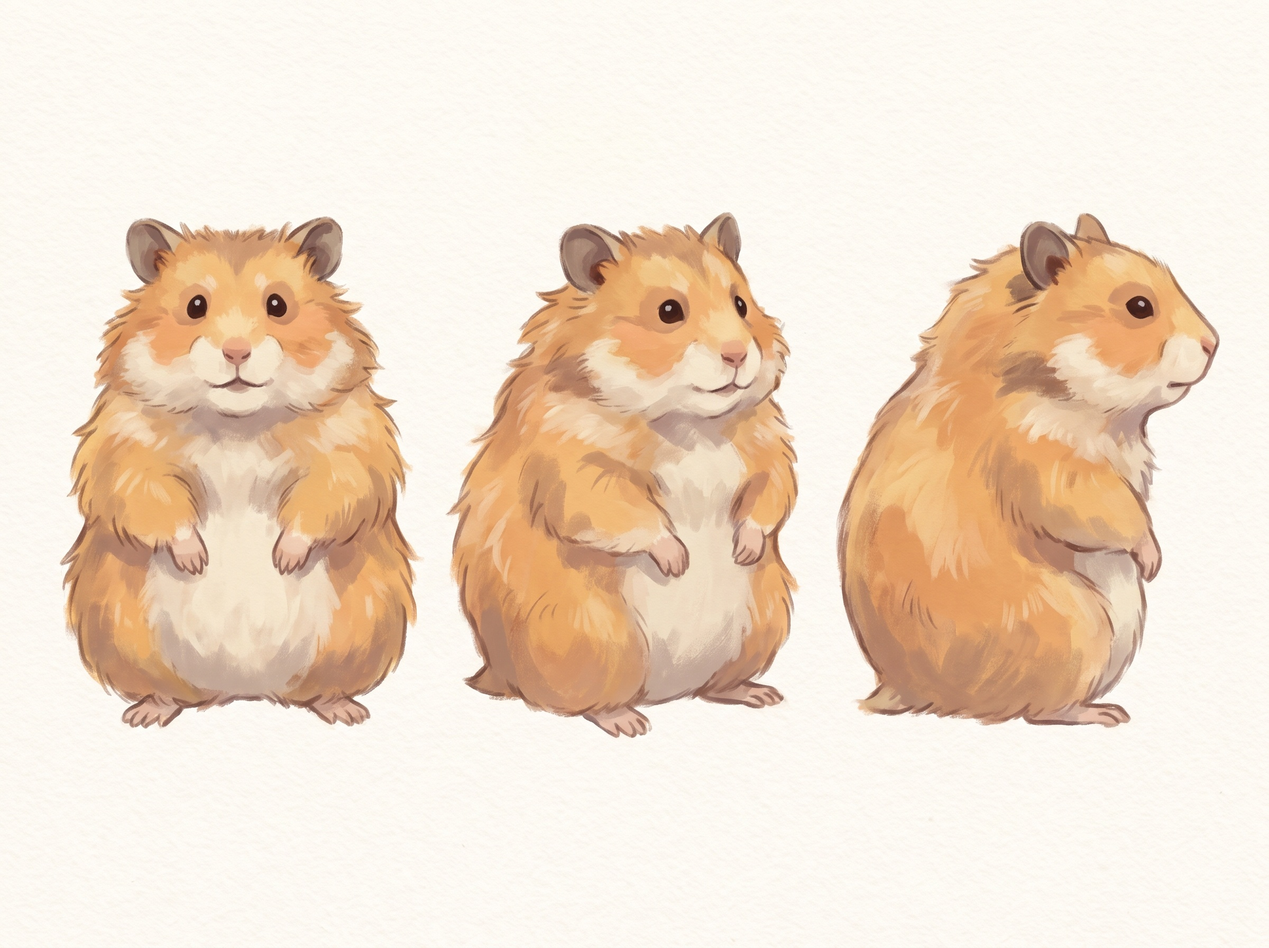
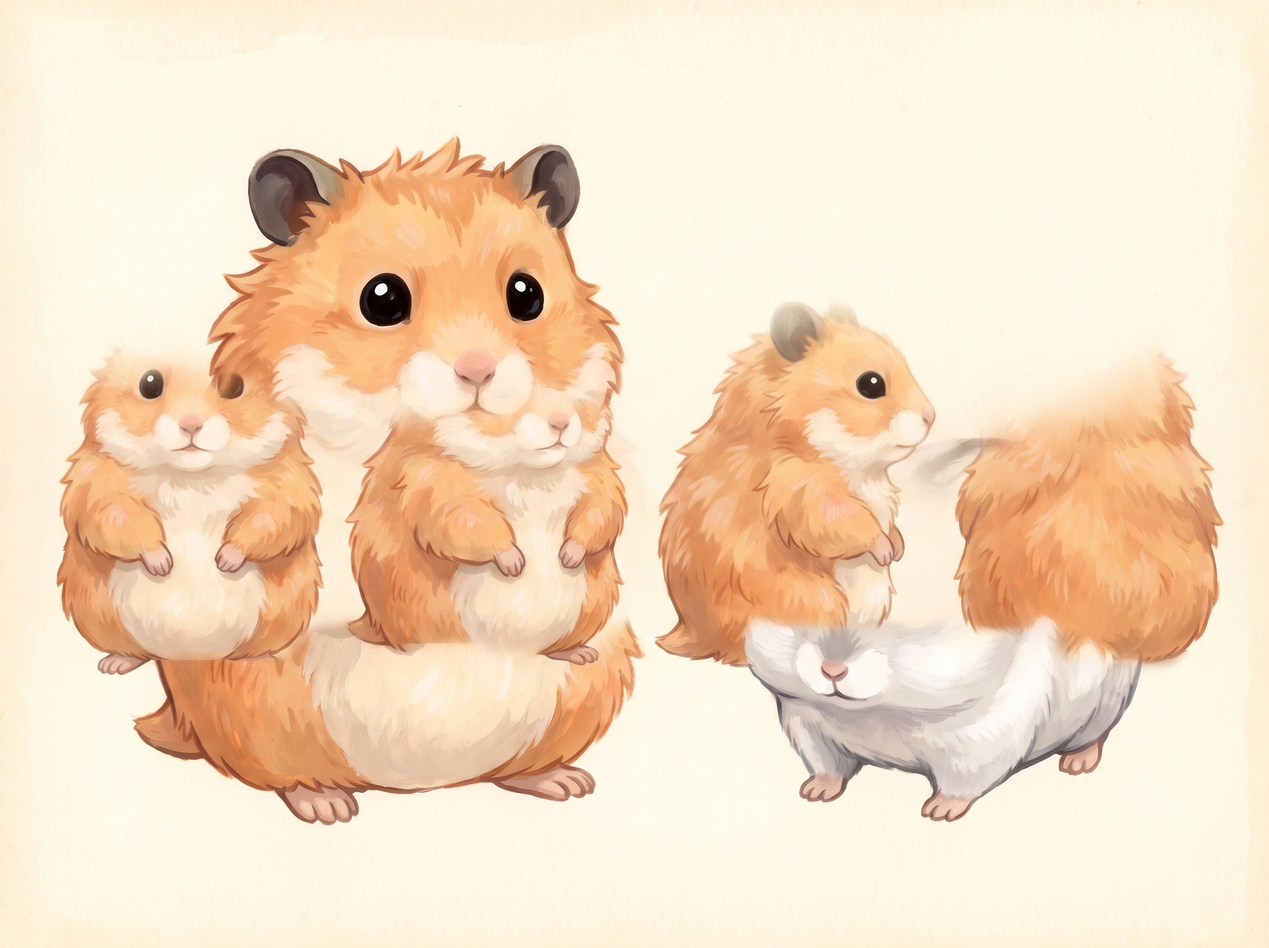
Derive the whole character set from one approved cast sheet
Generating each hamster separately meant two independent interpretations of
the same style prompt, which is why their rendering could drift apart. Both
are now drawn together first, fixing one brush, one palette and the size
relationship in a single image, and every other sheet is generated from that
one rather than from the text again.

Also pins the eyes: solid glossy black beads with a single catchlight, no
white sclera, no iris separation, no brows or lashes. Stated in the bible and
in both image prompts, so it holds for every future panel rather than just
these sheets. Visible sclera is what tips an animal character into uncanny.

Reference set is now the cast sheet plus a turnaround and an expression sheet
per character, which fills all five slots and stays balanced.

diff --git a/src/gemini.js b/src/gemini.js
@@ -209,6 +209,10 @@ ${scene}
 - No watermarks, borders, frames or panel dividers.
 - Full-bleed illustration filling the entire frame.
 - Correct anatomy: four limbs each, no extra or fused paws, no melted faces.
+- EYES: large round SOLID glossy black bead eyes, exactly like a real hamster's,
+  each with a single small white catchlight. No white sclera, no visible iris or
+  pupil separation, no human-shaped eyes, no eyebrows, no eyelashes. This is the
+  difference between cute and uncanny, so treat it as absolute.
 - Do not restyle the characters. The bible and the references win over any
   instinct to make them cuter or glossier.`;
 
@@ -263,6 +267,11 @@ ${layout}
 
 Painterly gouache and watercolour texture with visible brushwork and soft edges.
 Hand-painted storybook feel, not glossy 3D, not vector, not photographic.
+
+- EYES: large round SOLID glossy black bead eyes, exactly like a real hamster's,
+  each with a single small white catchlight. No white sclera, no visible iris or
+  pupil separation, no human-shaped eyes, no eyebrows, no eyelashes. This is the
+  difference between cute and uncanny, so treat it as absolute.
 
 The design must be simple enough to redraw identically hundreds of times, and
 distinctive enough to recognise instantly at thumbnail size.

diff --git a/bible.md b/bible.md
@@ -16,6 +16,12 @@ soft shadow.
 Palette: warm apricot, honey gold, soft cream, dusty sage green, muted teal, and
 warm greys. Slightly desaturated and harmonious. Nothing neon, nothing harsh.
 
+EYES, both characters, never change this: large, round, SOLID glossy black bead
+eyes, like real hamster eyes. A single small white catchlight highlight each, and
+nothing more. No visible white sclera. No visible iris or pupil separation. No
+human-shaped eyes, no eyelids, no eyebrows, no eyelashes. The eyes should read as
+dark, wet, shining beads. This is what keeps them cute rather than uncanny.
+
 ## World
 
 A cosy attic flat scaled for hamsters. Recurring rooms: a small kitchen with
@@ -30,7 +36,8 @@ window that looks out over rooftops.
   shaggy apricot-orange fur that sticks out in soft tufts and never quite lies
   flat, especially around his cheeks and rump. Pale cream belly, chest and
   muzzle. Small rounded dark ears mostly buried in fur. Large dark glossy eyes
-  set wide. Short blunt muzzle. Stubby little paws that look too small for him.
+  set wide, solid glossy black with a single catchlight. Short blunt muzzle.
+  Stubby little paws that look too small for him.
 - **Personality:** The rational one. Thinks things through, states the obvious
   truth nobody wanted said, and is usually right in a way that is funnier than
   being wrong. Dry, deadpan wit. Patient with Ichigo in a way that reads as
@@ -43,8 +50,8 @@ window that looks out over rooftops.
   smooth dense fur in pale silvery white, with a soft charcoal-grey dorsal
   stripe running from between her ears down her spine, and faint grey shading on
   her flanks. Pure white belly and feet. Proportionally larger ears than Teddy,
-  rounded and grey-tipped. Small dark bead eyes, bright and alert. Fine pointed
-  muzzle with prominent whiskers.
+  rounded and grey-tipped. Round solid glossy black bead eyes with a single
+  catchlight, bright and alert. Fine pointed muzzle with prominent whiskers.
 - **Personality:** Sassy, cheeky and very expressive. Acts first and reasons
   afterwards. Teases Teddy constantly, mostly because she likes the reaction.
   Enormous confidence for something that small. Loves him obviously and would
@@ -69,4 +76,8 @@ something tiny and certain.
   laptops.
 - Nothing mean-spirited, scary or sad-ending. They always end up fine.
 - Never make them glossy, plastic, hyper-real or anime styled.
+- Never give them human eyes. No white sclera, no visible iris rings, no
+  eyebrows, no eyelashes. Solid dark bead eyes only.
+- Both characters must always be painted in exactly the same style, by the same
+  hand, with the same brushwork and the same palette.
 - No clothing, scarves, hats, clips or accessories of any kind. Bare fur only.
